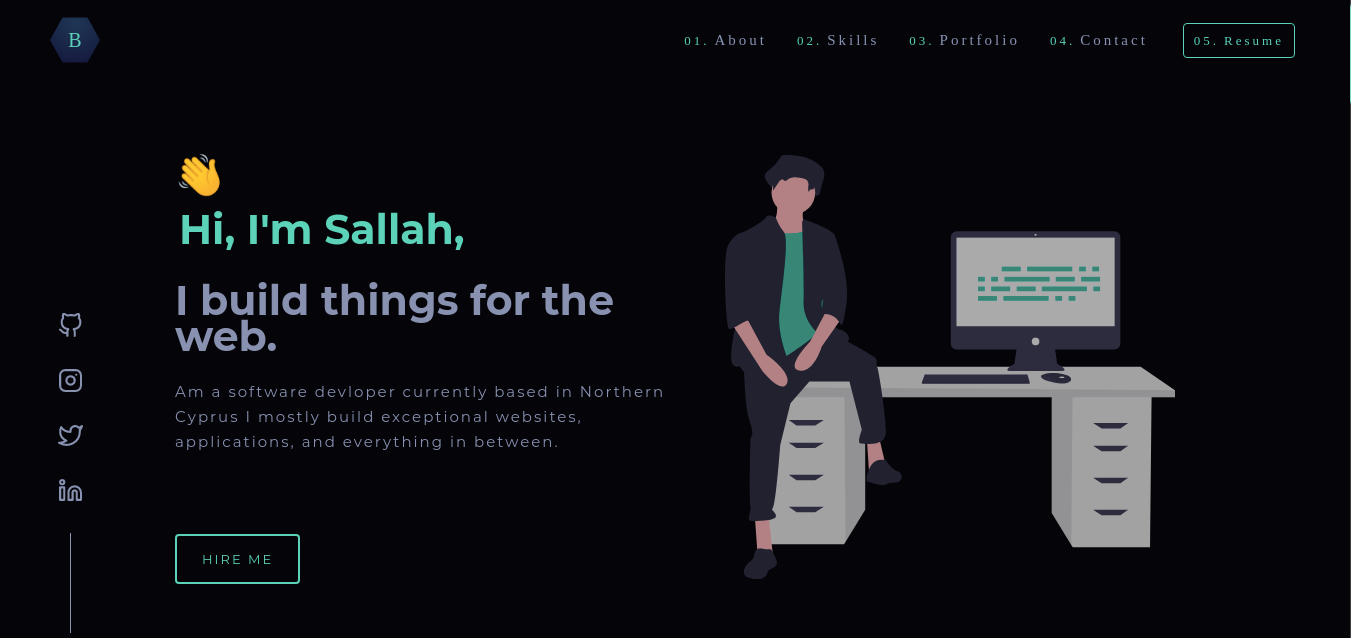
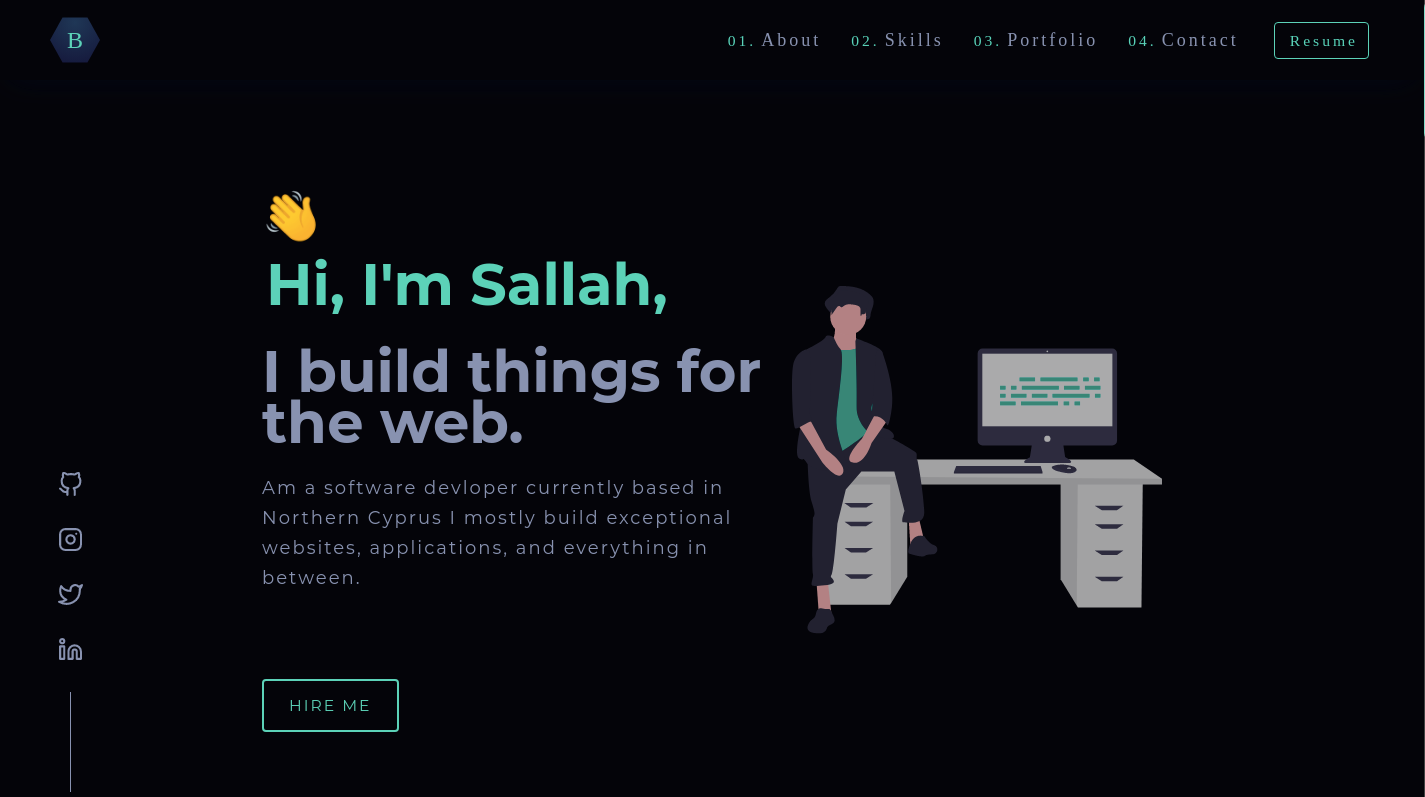
fixed some typos and change the redme.md screenshot

diff --git a/index.html b/index.html
@@ -92,7 +92,7 @@
                   d="M23 3a10.9 10.9 0 0 1-3.14 1.53 4.48 4.48 0 0 0-7.86 3v1A10.66 10.66 0 0 1 3 4s-4 9 5 13a11.64 11.64 0 0 1-7 2c9 5 20 0 20-11.5a4.5 4.5 0 0 0-.08-.83A7.72 7.72 0 0 0 23 3z">
                 </path>
               </svg></a></li>
-          <li><a href="https://www.linkedin.com/in/bchiang7" aria-label="Linkedin" target="_blank"
+          <li><a href="https://www.linkedin.com/in/sallah-baboucarr" aria-label="Linkedin" target="_blank"
               rel="noopener noreferrer"><svg xmlns="http://www.w3.org/2000/svg" role="img" viewBox="0 0 24 24"
                 fill="none" stroke="currentColor" stroke-width="2" stroke-linecap="round" stroke-linejoin="round"
                 class="feather feather-linkedin">
@@ -108,7 +108,7 @@
         <div class="hero-left">
           <div class="intro">
             <div class="wave">👋</div>
-            <h1 class="big-heading greating">Hi, I'm Sallah,
+            <h1 class="big-heading greating">Hi, I'm Sallah.
               <h1 />
           </div>
           <div>
@@ -119,7 +119,7 @@
           </div>
           <div class="description">
             <p>
-              Am a software devloper currently based in Northern Cyprus I mostly
+              Am a software devloper currently based in Northern Cyprus. I
               build exceptional websites, applications, and everything in between.
             </p>
           </div>
@@ -145,12 +145,12 @@
           </div>
           <div class="content-left">
             <p>
-              Hello! I'm Sallah, software engineer currently based in Northern Cyprus.
+              Hello! I'm Sallah, software developer currently based in Northern Cyprus.
             </p>
             <p>
               I enjoy building and creatings things that live in and outside the internet, whether that be websites,
               applications, or anything in bwetwen, My goal is to create user friendly products that are pixel-perfect,
-              performant expreciences.
+              performant expreciences.I have a passion for creating intuitive and dynamic user expreciences.
               Through constant learning and creation am able to create softwares of the highest standard.
             </p>
           </div>
@@ -234,10 +234,7 @@
                         from
                         frontend-Mentor, and so i built it using the design files they give you.
                       </p>
-                      <a href="https://easybankpage1.netlify.app/" target="_blank" rel="noopener noreferrer"
-                        class="portfolio-link">Live Demo <span class="right-arrow">
-                          &rarr;
-                        </span></a>
+                      
                         <div class="project-links"><a href="https://github.com/SallahTech/easybank-landing-page" aria-label="GitHub Link" rel="noopener noreferrer" target="_blank"><svg xmlns="http://www.w3.org/2000/svg" role="img" viewBox="0 0 24 24" fill="none" stroke="currentColor" stroke-width="2" stroke-linecap="round" stroke-linejoin="round" class="feather feather-github"><path d="M9 19c-5 1.5-5-2.5-7-3m14 6v-3.87a3.37 3.37 0 0 0-.94-2.61c3.14-.35 6.44-1.54 6.44-7A5.44 5.44 0 0 0 20 4.77 5.07 5.07 0 0 0 19.91 1S18.73.65 16 2.48a13.38 13.38 0 0 0-7 0C6.27.65 5.09 1 5.09 1A5.07 5.07 0 0 0 5 4.77a5.44 5.44 0 0 0-1.5 3.78c0 5.42 3.3 6.61 6.44 7A3.37 3.37 0 0 0 9 18.13V22"></path></svg></a><a href="https://easybankpage1.netlify.app/" aria-label="External Link" class="external" rel="noopener noreferrer" target="_blank"><svg xmlns="http://www.w3.org/2000/svg" role="img" viewBox="0 0 24 24" fill="none" stroke="currentColor" stroke-width="2" stroke-linecap="round" stroke-linejoin="round" class="feather feather-external-link"><path d="M18 13v6a2 2 0 0 1-2 2H5a2 2 0 0 1-2-2V8a2 2 0 0 1 2-2h6"></path><polyline points="15 3 21 3 21 9"></polyline><line x1="10" y1="14" x2="21" y2="3"></line></svg></a></div>
                   </div>
                   <div class="portfolio-wrapper portfolio-img">
